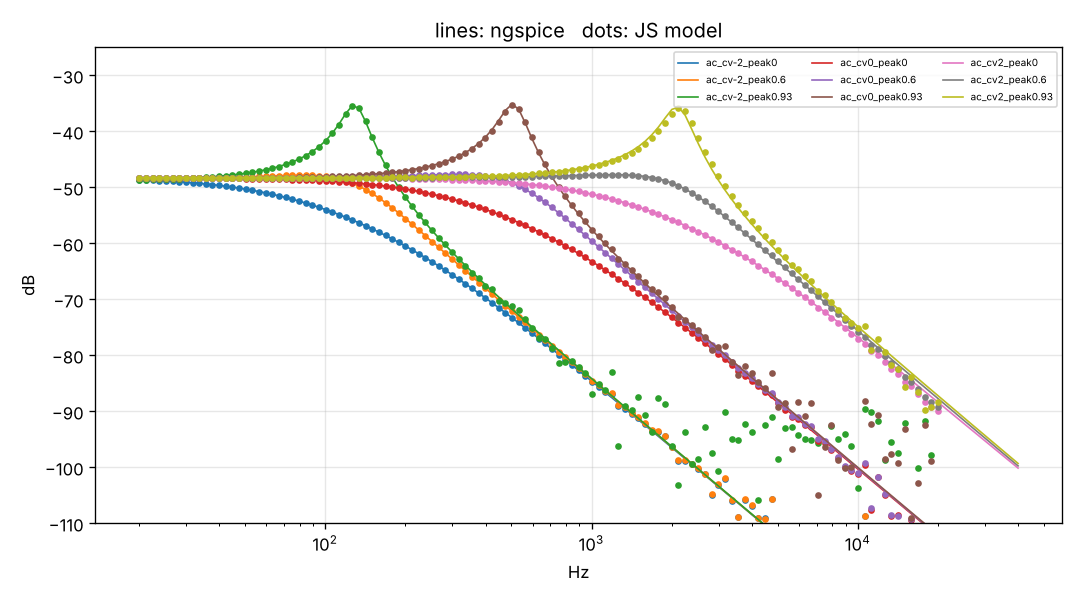
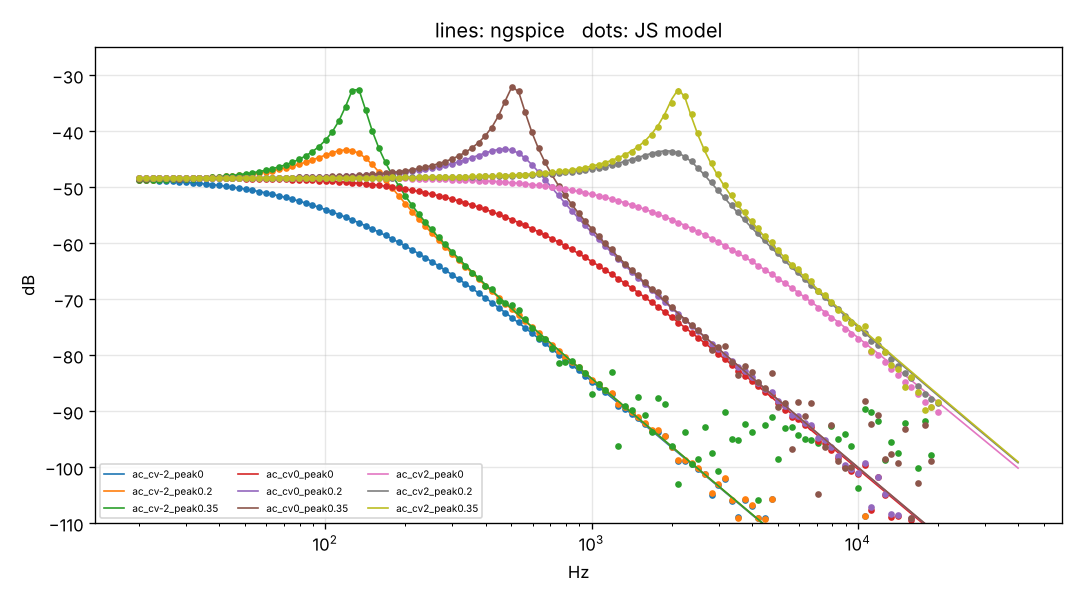
Fix weak VCF peak: correct R62 wiring, real input level, listen at IC7
- R62 2k2 runs from C19 to the PEAK pot wiper (across the top section), not in
  series with the pot. Self-oscillation now starts near 39% rotation, not 97%.
- The VCO reaches R57 through R80 43k / R81 330k, so the page now feeds the
  filter at the real level instead of about 5x too hot, which had choked the peak.
- The page listens at IC7's output (after C19), the signal the MS-10 sends to the VCA.
- ETDRK4 for the stiff C15 node keeps 4x oversampling accurate near oscillation.

Claude-Session: https://claude.ai/code/session_018ENZqSs4Q5GCgxek9oNbdy

diff --git a/dsp/ms10-vcf-core.js b/dsp/ms10-vcf-core.js
@@ -7,14 +7,14 @@
 //   I1   = alpha*Iabc*tanh((Vp - V1)/2VT),  V1 = q1 + Vf        -> C12:  dq1/dt = I1/C12
 //   I2   = alpha*Iabc*tanh((V1 - v2)/2VT)                         -> C13:  dv2/dt = I2/C13
 //   Vs   = peak amp IC7 output: Vs = v2 + x,  x/R64 + 2 Is sinh(x/(N VT)) = (v2 - vC16)/R63   (D10, D11)
-//   feedback network (R62, VR13 split Ra/Rb, R61 || C15, R60) solved by KCL with C12's current I1:
-//     Vf = Rp * (Vs/Rt - vc*(1/Rt + 1/Rb) + I1),   1/Rp = 1/Rt + 1/Rb + 1/R60,  Rt = R62 + Ra
+//   feedback network (VR13 split Ra/Rb with R62 across Ra, R61 || C15, R60) solved by KCL with C12's current I1:
+//     Vf = Rp * (Vs/Rt - vc*(1/Rt + 1/Rb) + I1),   1/Rp = 1/Rt + 1/Rb + 1/R60,  Rt = Ra || R62
 //     C15 dvc/dt = Vf/R60 - vc/R61 - I1
 //   I1 and Vf depend on each other, solved with Newton per evaluation.
 //   Iabc = Iref * 2^cv.
 //   C16 (in IC7's gain leg) and C19 (output coupling) are states too; transistor base currents
 //   (Ic/BF) loading the C12/C13 nodes are included, since they set the DC offset at mV signal levels.
-// RK4 at `oversample` x host rate (exponential integrator for the stiff C15 node); input upsampled with a Catmull-Rom cubic (1 sample latency).
+// RK4 at `oversample` x host rate (ETDRK4 exponential integrator, needed for the stiff C15 node); input upsampled with a Catmull-Rom cubic (1 sample latency).
 
 const K_B = 1.380649e-23, Q_E = 1.602176634e-19;
 
@@ -49,13 +49,18 @@ export class MS10VCF {
     if (p01 === this.peak) return;
     this.peak = p01;
     const P = this.p, Ra = (1 - p01) * P.VR13 + 0.01, Rb = p01 * P.VR13 + 0.01;
-    this.gt = 1 / (P.R62 + Ra); this.gb = 1 / Rb;
+    this.gt = 1 / Ra + 1 / P.R62; this.gb = 1 / Rb;    // R62 sits from C19 to the wiper, across the top section
     this.Rp = 1 / (this.gt + this.gb + 1 / P.R60);
     // C15 is stiff (tau down to ~0.2 us): dvc/dt = -lam*vc + B, integrated with an exponential
     // integrator (vc relaxes exactly toward B/lam), the other states with RK4.
     const lam = this.lam = (this.Rp * (this.gt + this.gb) / P.R60 + 1 / P.R61) / P.C15;
     this.E = Math.exp(-lam * this.h); this.E2 = Math.exp(-0.5 * lam * this.h);
     this.phi = (1 - this.E) / lam; this.phi2 = (1 - this.E2) / lam;
+    // ETDRK4 (Cox & Matthews) weights for the stiff component, L = -lam (h*lam is always > 15 here)
+    const h = this.h, L = -lam, hL = h * L, eh = this.E, c = 1 / (h * h * L * L * L);
+    this.f1 = c * (-4 - hL + eh * (4 - 3 * hL + hL * hL));
+    this.f2 = c * (2 + hL + eh * (-2 + hL));
+    this.f3 = c * (-4 - 3 * hL - hL * hL + eh * (4 - hL));
   }
   reset() { this.q1 = 0; this.v2 = 0; this.vc = 0; this.c16 = 0; this.c19 = 0; this.i1 = 0; this.lastIn = 0; this.xm1 = 0; this.xm2 = 0; }
 
@@ -107,27 +112,33 @@ export class MS10VCF {
     out[4] = (Vs - Vf - vc) * this.gt / P.C19;
   }
 
-  // One host-rate sample in (volts at R57), KORG35 pin 7 volts out.
+  // One host-rate sample in (volts at R57), KORG35 pin 7 volts out (this.ic7 = IC7 output after C19).
   tick(vin) {
     const os = this.os, h = this.h, a = this.atten;
     const pm1 = this.xm2, p0 = this.xm1, p1 = this.lastIn, p2 = vin;
     const c1 = 0.5 * (p1 - pm1), c2 = pm1 - 2.5 * p0 + 2 * p1 - 0.5 * p2, c3 = 0.5 * (p2 - pm1) + 1.5 * (p0 - p1);
     const u = (t) => a * (p0 + t * (c1 + t * (c2 + t * c3)));
-    const [k1, k2, k3, k4] = this._k, E = this.E, E2 = this.E2, ph = this.phi, ph2 = this.phi2, hh = 0.5 * h;
+    // ETDRK4: classic exponential RK4 for the stiff C15 state; the other states use its L = 0 limit.
+    const [k1, k2, k3, k4] = this._k, E = this.E, E2 = this.E2, ph2 = this.phi2, hh = 0.5 * h;
+    const f1 = this.f1, f2 = this.f2, f3 = this.f3;
     let q1 = this.q1, v2 = this.v2, vc = this.vc, c16 = this.c16, c19 = this.c19;
     for (let i = 0; i < os; i++) {
       const ua = u(i / os), um = u((i + 0.5) / os), ub = u((i + 1) / os);
       this._deriv(ua, q1, v2, vc, c16, c19, k1);
-      this._deriv(um, q1 + hh * k1[0], v2 + hh * k1[1], E2 * vc + ph2 * k1[2], c16 + hh * k1[3], c19 + hh * k1[4], k2);
+      const aq = q1 + hh * k1[0], av = v2 + hh * k1[1], ac = E2 * vc + ph2 * k1[2], a6 = c16 + hh * k1[3], a9 = c19 + hh * k1[4];
+      this._deriv(um, aq, av, ac, a6, a9, k2);
       this._deriv(um, q1 + hh * k2[0], v2 + hh * k2[1], E2 * vc + ph2 * k2[2], c16 + hh * k2[3], c19 + hh * k2[4], k3);
-      this._deriv(ub, q1 + h * k3[0], v2 + h * k3[1], E * vc + ph * k3[2], c16 + h * k3[3], c19 + h * k3[4], k4);
+      this._deriv(ub, aq + hh * (2 * k3[0] - k1[0]), av + hh * (2 * k3[1] - k1[1]), E2 * ac + ph2 * (2 * k3[2] - k1[2]),
+                  a6 + hh * (2 * k3[3] - k1[3]), a9 + hh * (2 * k3[4] - k1[4]), k4);
       q1 += h / 6 * (k1[0] + 2 * k2[0] + 2 * k3[0] + k4[0]);
       v2 += h / 6 * (k1[1] + 2 * k2[1] + 2 * k3[1] + k4[1]);
-      vc = E * vc + ph / 6 * (k1[2] + 2 * k2[2] + 2 * k3[2] + k4[2]);
+      vc = E * vc + f1 * k1[2] + 2 * f2 * (k2[2] + k3[2]) + f3 * k4[2];
       c16 += h / 6 * (k1[3] + 2 * k2[3] + 2 * k3[3] + k4[3]);
       c19 += h / 6 * (k1[4] + 2 * k2[4] + 2 * k3[4] + k4[4]);
     }
     this.q1 = q1; this.v2 = v2; this.vc = vc; this.c16 = c16; this.c19 = c19;
+    // IC7 output after C19: this is what the MS-10 sends on to the VCA (R88 -> TR9) and to the PEAK pot.
+    this.ic7 = v2 + this._ampX(v2 - c16) - c19;
     this.xm2 = p0; this.xm1 = p1; this.lastIn = vin;
     return v2;
   }

diff --git a/dsp/ms10-voice-processor.js b/dsp/ms10-voice-processor.js
@@ -1,7 +1,8 @@
 // AudioWorkletProcessor: MS-10 VCO (saw) -> VCF. Load with addModule('dsp/ms10-voice-processor.js'), node name 'ms10-voice'.
 // The VCO's sawtooth reset is band-limited with a polyBLEP (one sample of latency).
-// Not modelled yet: the waveform shaper / PW comparator (IC6) and SW-2; the saw goes to the VCF via the
-// C23 coupling cap and the R78/R79 divider, then R57.
+// Not modelled yet: the waveform shaper / PW comparator (IC6). The saw reaches the VCF as on the schematic:
+// C23 coupling cap, R78 4k7 / R79 6k8 divider, SW-2's R80 43k, then R57 12k into R59 47R (|| R56 4k7).
+// Output is IC7's output after C19, the signal the MS-10 passes on to the VCA.
 import { MS10VCO } from './ms10-vco-core.js';
 import { MS10VCF } from './ms10-vcf-core.js';
 
@@ -13,8 +14,8 @@ class MS10VoiceProcessor extends AudioWorkletProcessor {
       { name: 'ic1', defaultValue: 0, minValue: -5, maxValue: 5, automationRate: 'k-rate' },      // expo summer output, V
       { name: 'cutoff', defaultValue: 500, minValue: 20, maxValue: 20000, automationRate: 'k-rate' },
       { name: 'peak', defaultValue: 0.3, minValue: 0, maxValue: 1, automationRate: 'k-rate' },
-      { name: 'level', defaultValue: 1, minValue: 0, maxValue: 4, automationRate: 'k-rate' },     // scales the saw into R57
-      { name: 'outputScale', defaultValue: 40, minValue: 0, maxValue: 1000, automationRate: 'k-rate' },
+      { name: 'level', defaultValue: 1, minValue: 0, maxValue: 4, automationRate: 'k-rate' },     // 1 = the real saw level
+      { name: 'outputScale', defaultValue: 2, minValue: 0, maxValue: 50, automationRate: 'k-rate' },
     ];
   }
   constructor() {
@@ -28,7 +29,10 @@ class MS10VoiceProcessor extends AudioWorkletProcessor {
     vco.set(P.kbd[0], P.footage[0], P.ic1[0]);
     vcf.setCV(Math.log2(P.cutoff[0] / 500));
     vcf.setPeak(P.peak[0]);
-    const lvl = P.level[0] * 6.8 / 11.5, os = P.outputScale[0];
+    // Thevenin of the R78/R79 divider (gain 6.8/11.5, 2.78k) in series with R80 43k, folded into the
+    // VCF model's R57 input: scale = (R57 + Rsh) / (Rth + R80 + R57 + Rsh).
+    const rsh = 1 / (1 / 47 + 1 / 4700), rth = 4700 * 6800 / 11500;
+    const lvl = P.level[0] * (6.8 / 11.5) * (12000 + rsh) / (rth + 43000 + 12000 + rsh), os = P.outputScale[0];
     for (let i = 0; i < out.length; i++) {
       let cur = vco.tick(), prev = this.prevX;
       if (vco.reset >= 0) {                       // upward step of J at (1 - d) into this sample interval
@@ -38,7 +42,8 @@ class MS10VoiceProcessor extends AudioWorkletProcessor {
       this.prevX = cur;
       const saw = vco._follower(prev);
       this.dc += this.dcA * (saw - this.dc);
-      out[i] = os * vcf.tick(lvl * (saw - this.dc));
+      vcf.tick(lvl * (saw - this.dc));
+      out[i] = os * vcf.ic7;
     }
     for (let c = 1; c < outputs[0].length; c++) outputs[0][c].set(out);
     return true;

diff --git a/dsp/ms10-vcf-processor.js b/dsp/ms10-vcf-processor.js
@@ -1,7 +1,8 @@
 // AudioWorkletProcessor wrapping the MS-10 VCF model.
 // Load with: await ctx.audioWorklet.addModule('dsp/ms10-vcf-processor.js')
-// inputScale: volts at R57 for a full-scale (1.0) input sample (the MS-10 VCO is a few volts).
-// outputScale: gain from KORG35 pin 7 (millivolts) back to audio full scale.
+// inputScale: volts at R57 for a full-scale (1.0) input sample. The MS-10 VCO reaches R57 through R80 43k or
+//   R81 330k, which is equivalent to a few hundred millivolts here.
+// outputScale: gain from IC7's output (after C19, the signal sent to the VCA) back to audio full scale.
 // cutoff: self-oscillation frequency in Hz (500 Hz = cutoff knob at 5 per the adjustment procedure).
 import { MS10VCF } from './ms10-vcf-core.js';
 
@@ -11,8 +12,8 @@ class MS10VCFProcessor extends AudioWorkletProcessor {
       { name: 'cutoff', defaultValue: 500, minValue: 20, maxValue: 20000, automationRate: 'k-rate' },
       { name: 'cv', defaultValue: 0, minValue: -10, maxValue: 10, automationRate: 'a-rate' }, // added V/oct
       { name: 'peak', defaultValue: 0.3, minValue: 0, maxValue: 1, automationRate: 'k-rate' },
-      { name: 'inputScale', defaultValue: 5, minValue: 0, maxValue: 20, automationRate: 'k-rate' },
-      { name: 'outputScale', defaultValue: 40, minValue: 0, maxValue: 1000, automationRate: 'k-rate' },
+      { name: 'inputScale', defaultValue: 0.4, minValue: 0, maxValue: 20, automationRate: 'k-rate' },
+      { name: 'outputScale', defaultValue: 2, minValue: 0, maxValue: 50, automationRate: 'k-rate' },
     ];
   }
   constructor(options) {
@@ -33,7 +34,8 @@ class MS10VCFProcessor extends AudioWorkletProcessor {
       const out = output[c];
       for (let i = 0; i < n; i++) {
         if (cvRate || i === 0) f.setCV(baseCV + cvA[cvRate ? i : 0]);
-        out[i] = outS * f.tick(inp ? inS * inp[i] : 0);
+        f.tick(inp ? inS * inp[i] : 0);
+        out[i] = outS * f.ic7;
       }
     }
     return true;

diff --git a/index.html b/index.html
@@ -44,12 +44,12 @@ a{color:var(--acc)}
     <label>Keyboard CV (Hz/V) <b id="pv"></b><input id="pitch" type="range" min="0" max="1000" value="400"></label>
     <label>Pitch knob (expo, IC1) <b id="ev"></b><input id="expo" type="range" min="0" max="1000" value="500"></label>
     <label>Cutoff <b id="cv"></b><input id="cut" type="range" min="0" max="1000" value="550"></label>
-    <label>Peak <b id="kv"></b><input id="peak" type="range" min="0" max="1000" value="700"></label>
+    <label>Peak <b id="kv"></b><input id="peak" type="range" min="0" max="1000" value="350"></label>
     <label>VCO level into VCF <b id="dv"></b><input id="drive" type="range" min="0" max="1000" value="250"></label>
     <label>Volume <b id="vv"></b><input id="vol" type="range" min="0" max="1000" value="500"></label>
   </div>
   <canvas id="scope" width="1600" height="280"></canvas>
-  <p class="mut">Push Peak to the top for self-oscillation, as on the real panel.</p>
+  <p class="mut">Peak starts to self-oscillate a little before 4 on the dial. Higher settings scream more and get grittier as IC7's limiting diodes take over.</p>
 </div>
 
 <h2>Status</h2>

diff --git a/validate/compare.py b/validate/compare.py
@@ -3,7 +3,7 @@ import json, os
 import numpy as np, matplotlib; matplotlib.use("Agg"); import matplotlib.pyplot as plt
 H = os.path.dirname(os.path.abspath(__file__)); SP = os.path.join(H, "..", "spice", "out"); OUT = os.path.join(H, "out")
 M = json.load(open(os.path.join(OUT, "model.json"))); fs = M["fs"]
-lines = ["# MS-10 VCF: JS model vs ngspice\n", "## Small-signal frequency response (50 mV at R57, 5 mV for peak 0.93; gain includes the 1/259 input attenuator)\n",
+lines = ["# MS-10 VCF: JS model vs ngspice\n", "## Small-signal frequency response (50 mV at R57, 5 mV for peak 0.35; gain includes the 1/259 input attenuator)\n",
          "| case (error only where response is within 40 dB of its max) | max abs dB error 20 Hz-10 kHz | max abs dB error 10-20 kHz | peak freq spice / model (Hz) | peak dB spice / model |", "|---|---|---|---|---|"]
 fig, ax = plt.subplots(figsize=(9, 5))
 for i, (name, d) in enumerate(M["ac"].items()):
@@ -17,13 +17,15 @@ for i, (name, d) in enumerate(M["ac"].items()):
 ax.set_ylim(-110, -25); ax.set_xlabel("Hz"); ax.set_ylabel("dB"); ax.grid(alpha=.3)
 ax.set_title("lines: ngspice   dots: JS model"); ax.legend(fontsize=6, ncol=3); fig.tight_layout()
 fig.savefig(os.path.join(OUT, "ac.png"), dpi=120)
-lines += ["\n## Transient (48 kHz, 4x oversampled RK4)\n", "| case | RMS error (V at pin 7) | RMS of spice output (V) | relative | JS cost (ms per s of audio, 1 voice) |", "|---|---|---|---|---|"]
+lines += ["\n## Transient (48 kHz, 4x oversampled RK4)\n", "| case | RMS error at pin 7 (V) | RMS of spice pin 7 (V) | relative | relative error at IC7 output (what the VCA hears) | JS cost (ms per s of audio, 1 voice) |", "|---|---|---|---|---|---|"]
 names = list(M["tran"]); fig, axs = plt.subplots(len(names), 1, figsize=(9, 2.6 * len(names)))
 for a, name in zip(axs, names):
     s = np.loadtxt(os.path.join(SP, name + ".dat")); y = np.array(M["tran"][name]["y"])
     t = np.arange(len(y)) / fs; si = np.interp(t, s[:, 0], s[:, 1]); n = min(len(y), np.searchsorted(t, s[-1, 0]))
     e = np.sqrt(np.mean((si[:n] - y[:n]) ** 2)); r = np.sqrt(np.mean(si[:n] ** 2))
-    lines.append(f"| {name} | {e:.4g} | {r:.4g} | {e/r*100:.2f}% | {M['tran'][name]['msPerSecondAudio']:.1f} |")
+    yi = np.array(M["tran"][name]["ic7"])[:n]; s7 = np.interp(t, s[:, 0], s[:, 3])[:n]
+    e7 = np.sqrt(np.mean((s7 - yi) ** 2)) / np.sqrt(np.mean(s7 ** 2))
+    lines.append(f"| {name} | {e:.4g} | {r:.4g} | {e/r*100:.2f}% | {e7*100:.2f}% | {M['tran'][name]['msPerSecondAudio']:.1f} |")
     if "selfosc" in name:
         def fa(t, y):
             y = y[len(y)//2:]; t = t[len(t)//2:]; z = np.where((y[:-1] < 0) & (y[1:] >= 0))[0]

diff --git a/spice/run_spice.py b/spice/run_spice.py
@@ -37,7 +37,7 @@ def vcf_line(cv, peak):
     return (f"Vvc vc 0 DC {vc_for(cv):.9g}\n"
             f"X vin out vc vcc ms10vcf iref={IREF:.9g} peak={peak}")
 
-AC_CASES = [(cv, pk) for cv in (-2, 0, 2) for pk in (0, 0.6, 0.93)]
+AC_CASES = [(cv, pk) for cv in (-2, 0, 2) for pk in (0, 0.2, 0.35)]
 def run_ac():
     for cv, rf in AC_CASES:
         name = f"ac_cv{cv}_peak{rf}"
@@ -55,15 +55,15 @@ def pwl_file(name, x):
 def tran_inputs():
     fs = P["fs"]; t = lambda dur: np.arange(int(dur*fs)) / fs
     tt = t(0.03)
-    sq = np.where(np.sin(2*np.pi*110*tt) >= 0, 2.5, -2.5); sq[0] = 0.0
-    t2 = t(0.06); kick = np.zeros_like(t2); kick[1:5] = 2.0
-    t3 = t(0.03); sine = 5.0*np.sin(2*np.pi*220*t3)
-    t4 = t(0.03); saw = 5.0*((t4*82.4) % 1.0) - 2.5; saw[0] = 0
-    # (name, input volts at R57, cv, peak)
-    return [("tran_square_res", sq, 1, 0.9),
-            ("tran_selfosc", kick, 0, 1.0),
-            ("tran_sine_drive", sine, 1.5, 0.5),
-            ("tran_saw_lowpeak", saw, 0.5, 0.2)]
+    sq = np.where(np.sin(2*np.pi*110*tt) >= 0, 0.4, -0.4); sq[0] = 0.0
+    t2 = t(0.06); kick = np.zeros_like(t2); kick[1:5] = 0.5
+    t3 = t(0.03); sine = 1.5*np.sin(2*np.pi*220*t3)
+    t4 = t(0.03); saw = 0.8*((t4*82.4) % 1.0) - 0.4; saw[0] = 0
+    # (name, input volts at R57, cv, peak). Real VCO levels at R57 are a few hundred mV (R80 43k / R81 330k in series).
+    return [("tran_square_res", sq, 1, 0.35),
+            ("tran_selfosc", kick, 0, 0.7),
+            ("tran_sine_drive", sine, 1.5, 0.3),
+            ("tran_saw_lowpeak", saw, 0.5, 0.15)]
 
 def run_tran():
     fs = P["fs"]
@@ -76,7 +76,7 @@ def run_tran():
         dat = os.path.join(OUT, name + ".dat")
         bench(name, body,
               f"tran {1/fs/8:.6e} {dur - 1/fs:.6e} 0 {1/fs/16:.6e}\n"
-              f"linearize v(out)\nwrdata {dat} v(out)")
+              f"linearize v(out) v(x.b)\nwrdata {dat} v(out) v(x.b)")
 
 if __name__ == "__main__":
     json.dump({"VT": VT, "alpha": alpha, "Iref": IREF,

diff --git a/README.md b/README.md
@@ -16,21 +16,23 @@ Live page: https://johnnyhawk02.github.io/ms10/
 ## VCF
 From the circuit diagram (manual p.4): input attenuator R57 12k / R59 47R (with R56 4k7 to the EXT level amp),
 C12 3.3n (floating, to the peak-feedback node), C13 1n (to ground), peak amp IC7 1/2 4558 with R64 270k,
-R63 4k7 + C16 10u, limiting diodes D10/D11 1S1588, then C19 33u, R62 2k2, VR13 10kB PEAK pot,
-R61 5k6 || C15 1n into the feedback node with R60 220R to ground.
+R63 4k7 + C16 10u, limiting diodes D10/D11 1S1588, then C19 33u into the VR13 10kB PEAK pot with R62 2k2 from
+C19 to the wiper (across the pot's top section), then R61 5k6 || C15 1n into the feedback node with R60 220R to ground.
+IC7's output (after C19) is also what goes on to the VCA, so the web page listens there.
 
 **Assumed (not in the manual):** the inside of the KORG35 hybrid. It is modelled as two BJT
 differential-pair transconductors forming a Sallen-Key low-pass, a matched-pair exponential converter,
 and a unity buffer on pin 7. With these caps the loop self-oscillates at K = 1 + C13/C12 = 1.30, which the
-real feedback network reaches at about 97% of the PEAK pot, matching the panel behaviour.
+real feedback network reaches at about 39% of the PEAK pot rotation. Above that the filter self-oscillates and
+IC7's diodes set the level.
 The cutoff is calibrated to the adjustment procedure (7-4: cutoff knob at 5 oscillates at 500 Hz).
 The IC5 cutoff CV summer is not modelled yet; the worklet takes cutoff in Hz plus a V/oct CV.
 
 Validation summary (`validate/out/report.md`):
-- Resonant peak frequency matches ngspice exactly in all 9 cases; peak level within 0.15 dB.
-- Pass band within about 0.5 dB, up to 1 dB deep into the stop band (40 dB down).
-- Transients (square at high peak, hard-driven sine, saw): 0.04% to 0.2% RMS error.
-- Self-oscillation: 513.4 Hz / 2.10 mV in ngspice vs 517.6 Hz / 2.09 mV in JS.
+- Resonant peak frequency matches ngspice in all 9 cases; peak level within 0.35 dB.
+- Pass band within about 0.7 dB.
+- Transients at real signal levels (square near the onset of oscillation, driven sine, saw): 0.1% to 0.9% RMS error.
+- Self-oscillation at peak 0.7: 508.5 Hz / 4.53 mV in ngspice vs 510.1 Hz / 4.52 mV in JS.
 
 ## VCO
 From the circuit diagram: the keyboard CV is **Hz/V**. It drives a 100k x8 (0.1%) resistor chain; SW-1 picks the
@@ -50,7 +52,7 @@ The web page plays the VCO saw (polyBLEP band-limited) through the VCF (`dsp/ms1
 
 ## Layout
 - `spice/korg35_vcf.lib` - netlist; `spice/params.json` - values; `spice/run_spice.py` - test benches
-- `dsp/ms10-vcf-core.js` - DSP model (RK4, 4x oversampled, exponential integrator for the stiff C15 node)
+- `dsp/ms10-vcf-core.js` - DSP model (4x oversampled ETDRK4; the exponential part handles the stiff C15 node)
 - `dsp/ms10-vcf-processor.js` - AudioWorkletProcessor `ms10-vcf`
 - `spice/ms10_vco.lib`, `spice/run_vco.py` - VCO netlist and sweep; `dsp/ms10-vco-core.js` - VCO model
 - `dsp/ms10-voice-processor.js` - AudioWorkletProcessor `ms10-voice` (VCO saw into VCF)

diff --git a/validate/out/report.md b/validate/out/report.md
@@ -1,26 +1,26 @@
 # MS-10 VCF: JS model vs ngspice
 
-## Small-signal frequency response (50 mV at R57, 5 mV for peak 0.93; gain includes the 1/259 input attenuator)
+## Small-signal frequency response (50 mV at R57, 5 mV for peak 0.35; gain includes the 1/259 input attenuator)
 
 | case (error only where response is within 40 dB of its max) | max abs dB error 20 Hz-10 kHz | max abs dB error 10-20 kHz | peak freq spice / model (Hz) | peak dB spice / model |
 |---|---|---|---|---|
 | ac_cv-2_peak0 | 0.580 | nan | 20 / 20 | -48.65 / -48.65 |
-| ac_cv-2_peak0.6 | 0.546 | nan | 80 / 80 | -47.83 / -47.83 |
-| ac_cv-2_peak0.93 | 0.933 | nan | 126 / 126 | -35.42 / -35.47 |
-| ac_cv0_peak0 | 0.452 | nan | 20 / 20 | -48.29 / -48.29 |
-| ac_cv0_peak0.6 | 0.487 | nan | 317 / 317 | -47.67 / -47.69 |
-| ac_cv0_peak0.93 | 0.647 | nan | 502 / 502 | -35.17 / -35.28 |
-| ac_cv2_peak0 | 0.270 | 1.93 | 20 / 20 | -48.26 / -48.26 |
-| ac_cv2_peak0.6 | 0.152 | 1.77 | 1191 / 1191 | -47.74 / -47.78 |
-| ac_cv2_peak0.93 | 1.023 | 0.17 | 2119 / 2119 | -35.67 / -35.82 |
+| ac_cv-2_peak0.2 | 0.196 | nan | 119 / 119 | -43.30 / -43.33 |
+| ac_cv-2_peak0.35 | 0.687 | nan | 134 / 134 | -32.55 / -32.54 |
+| ac_cv0_peak0 | 0.447 | nan | 20 / 20 | -48.29 / -48.29 |
+| ac_cv0_peak0.2 | 0.187 | nan | 474 / 474 | -43.14 / -43.18 |
+| ac_cv0_peak0.35 | 0.572 | nan | 502 / 502 | -32.01 / -32.14 |
+| ac_cv2_peak0 | 0.289 | 2.00 | 20 / 20 | -48.26 / -48.26 |
+| ac_cv2_peak0.2 | 0.244 | 1.06 | 1888 / 1888 | -43.48 / -43.62 |
+| ac_cv2_peak0.35 | 0.623 | nan | 2119 / 2119 | -32.44 / -32.78 |
 
 ## Transient (48 kHz, 4x oversampled RK4)
 
-| case | RMS error (V at pin 7) | RMS of spice output (V) | relative | JS cost (ms per s of audio, 1 voice) |
-|---|---|---|---|---|
-| tran_square_res | 1.646e-05 | 0.009405 | 0.18% | 206.0 |
-| tran_selfosc | 0.002144 | 0.001529 | 140.17% | 193.1 |
-| tran_sine_drive | 5.335e-06 | 0.01321 | 0.04% | 176.0 |
-| tran_saw_lowpeak | 5.449e-06 | 0.005233 | 0.10% | 183.8 |
+| case | RMS error at pin 7 (V) | RMS of spice pin 7 (V) | relative | relative error at IC7 output (what the VCA hears) | JS cost (ms per s of audio, 1 voice) |
+|---|---|---|---|---|---|
+| tran_square_res | 1.464e-05 | 0.001677 | 0.87% | 0.82% | 182.9 |
+| tran_selfosc | 0.004927 | 0.003148 | 156.53% | 157.24% | 166.9 |
+| tran_sine_drive | 5.008e-06 | 0.004103 | 0.12% | 0.13% | 166.9 |
+| tran_saw_lowpeak | 5.86e-06 | 0.001037 | 0.57% | 0.26% | 179.6 |
 
-Self-oscillation (second half of run): ngspice 513.4 Hz, 2.103 mV peak; JS 517.6 Hz, 2.092 mV peak. Sample-by-sample RMS error is large here only because a small frequency difference accumulates phase.
+Self-oscillation (second half of run): ngspice 508.5 Hz, 4.528 mV peak; JS 510.1 Hz, 4.523 mV peak. Sample-by-sample RMS error is large here only because a small frequency difference accumulates phase.
